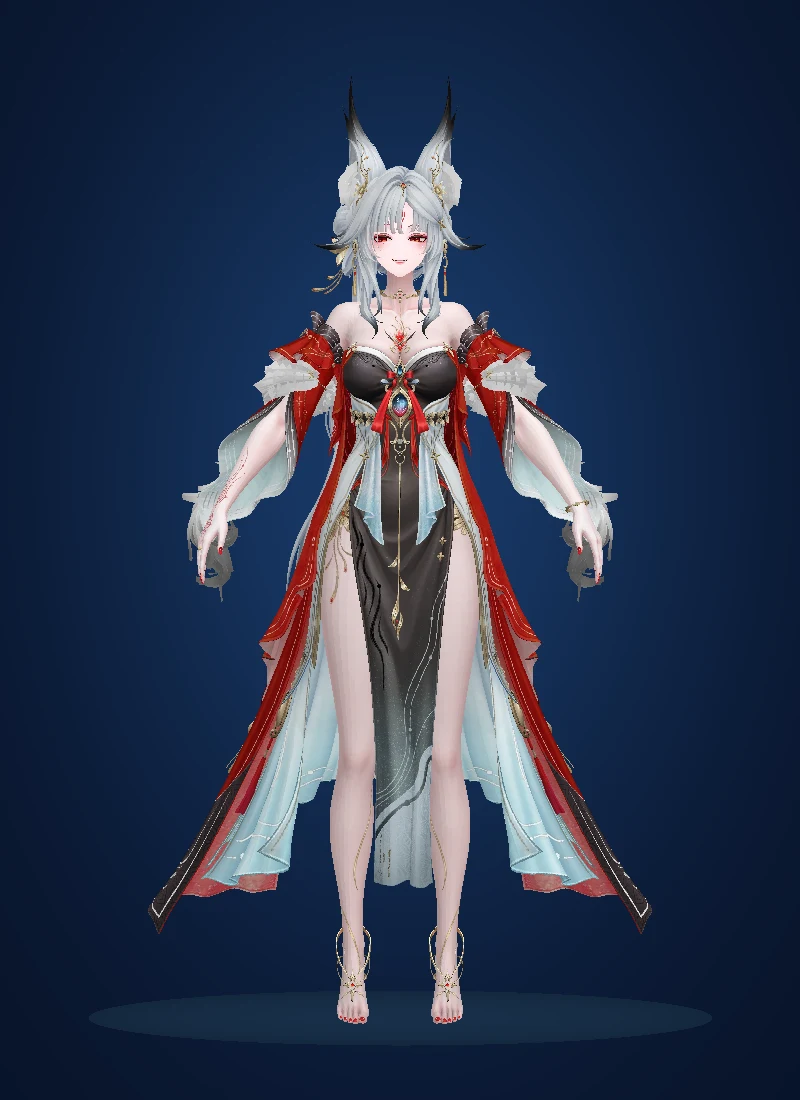
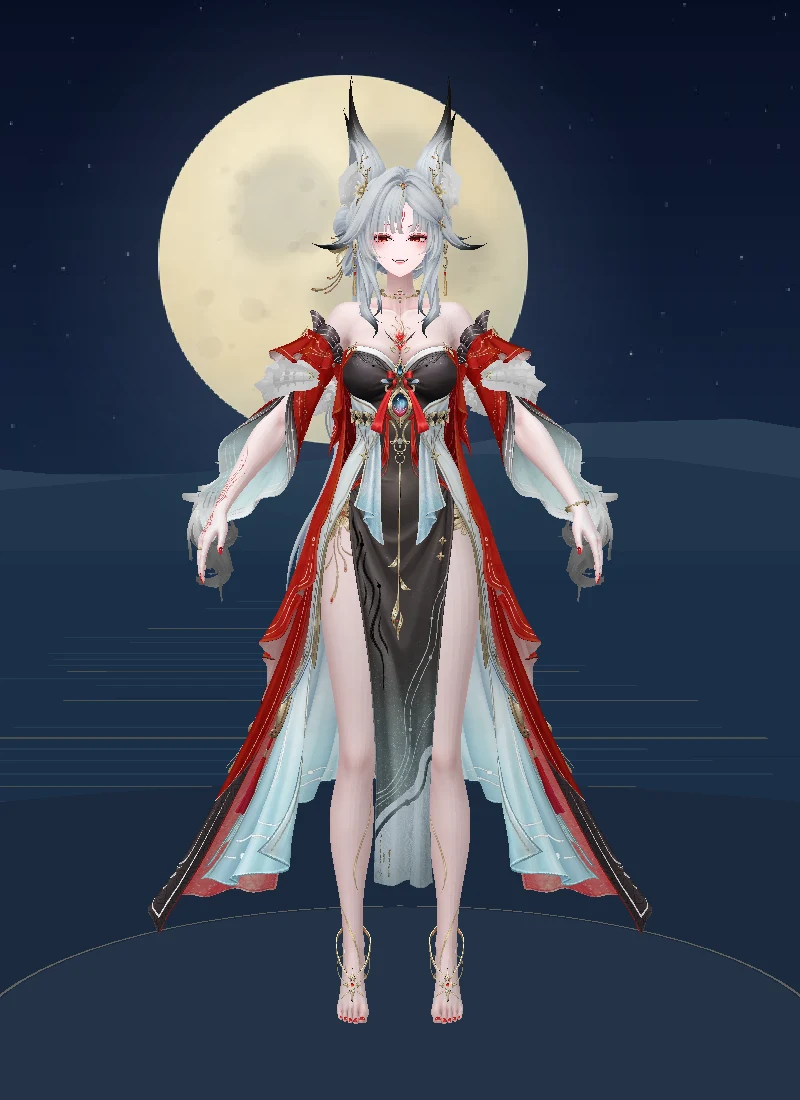
feat(hsin): reinterpret moonlit terrace with full moon and lightweight lake scenery

diff --git a/src/scripts/hsin-stage.ts b/src/scripts/hsin-stage.ts
@@ -7,6 +7,7 @@ import {createChestDirector} from './hsin-chest-director.mjs';
 import {createBodyRepertoire} from './hsin-body-repertoire.mjs';
 import {createPoseTransition} from './hsin-pose-transition.mjs';
 import {createRestBreath} from './hsin-rest-breath.mjs';
+import {MOONLIT,createMoonlitEnvironment} from './hsin-moonlit-environment.mjs';
 
 /** Public player. The local-file lab, geometry solvers and authoring UI are separate entries. */
 export function mountHsinStage(root:HTMLElement){
@@ -52,19 +53,24 @@ export function mountHsinStage(root:HTMLElement){
    const [profileResponse,response]=await Promise.all([fetch(HSIN_STAGE.profile+version,{signal:attempt.signal}),fetch(HSIN_STAGE.model+version,{signal:attempt.signal})]);
    if(!profileResponse.ok)throw Error('Stage profile unavailable.');const profile=await profileResponse.json();if(profile.modelSha256!==asset.sha256)throw Error('Stage/profile version mismatch.');
    if(!response.ok)throw Error('Model unavailable.');
+   // Small, prebuilt scenery textures. Late results after navigation are disposed immediately.
+   const textureLoader=new T.TextureLoader();
+   const sceneryTexture=async(url:string)=>{const t=await textureLoader.loadAsync(url);if(cleaned||attempt.signal.aborted){t.dispose();throw Error('Scenery load cancelled.');}t.colorSpace=T.SRGBColorSpace;textures.add(t);return t;};
+   const scenery=Promise.all([sceneryTexture(MOONLIT.sky),sceneryTexture(MOONLIT.moon)]);
+   // Attach an immediate rejection handler while GLTF parsing is in flight.
+   scenery.catch(()=>{});
    const bytes=await response.arrayBuffer(),gltf=await new GLTFLoader().parseAsync(bytes,'');model=gltf.scene;
    if(attempt.signal.aborted||destroyed||attemptId!==generation){collect(model);releaseCollected();if(!cleaned)clean();return;}
-   scene=new T.Scene();scene.matrixWorldAutoUpdate=false;scene.fog=new T.Fog(HSIN_STAGE.colors.fog,7,22);
-   const sky=document.createElement('canvas');sky.width=256;sky.height=512;const ctx=sky.getContext('2d')!;
-   const gradient=ctx.createLinearGradient(0,0,0,512);gradient.addColorStop(0,'#081329');gradient.addColorStop(.45,'#244c78');gradient.addColorStop(.7,'#162d50');gradient.addColorStop(1,'#0b1d36');ctx.fillStyle=gradient;ctx.fillRect(0,0,256,512);
-   const halo=ctx.createRadialGradient(128,220,5,128,220,160);halo.addColorStop(0,'#6b95bb38');halo.addColorStop(1,'#6b95bb00');ctx.fillStyle=halo;ctx.fillRect(0,0,256,512);
-   const backdrop=new T.CanvasTexture(sky);backdrop.colorSpace=T.SRGBColorSpace;scene.background=backdrop;textures.add(backdrop);
-   const floor=new T.Mesh(new T.PlaneGeometry(60,60),new T.MeshBasicMaterial({color:0x122d4a}));floor.rotation.x=-Math.PI/2;floor.position.y=-.083;scene.add(floor);
+   // Adopt the model before awaiting scenery so failure/teardown also releases its GPU resources.
+   scene=new T.Scene();scene.matrixWorldAutoUpdate=false;scene.add(model);
+   const [skyTexture,moonTexture]=await scenery;
+   if(attempt.signal.aborted||destroyed||attemptId!==generation)return;
+   const moonlit=createMoonlitEnvironment({THREE:T,skyTexture,moonTexture});scene.background=moonlit.background;scene.fog=moonlit.fog;scene.add(moonlit.group);
    const platform=new T.Mesh(new T.CylinderGeometry(.79,.84,.075,48),new T.MeshStandardMaterial({color:HSIN_STAGE.colors.platform,roughness:.94,metalness:.08}));platform.position.y=-.042;scene.add(platform);
    const ring=new T.Mesh(new T.RingGeometry(.79,.797,64),new T.MeshBasicMaterial({color:HSIN_STAGE.colors.ring,transparent:true,opacity:.42,depthWrite:false}));ring.rotation.x=-Math.PI/2;ring.position.y=-.002;scene.add(ring);
    const shadowCanvas=document.createElement('canvas');shadowCanvas.width=shadowCanvas.height=128;const sc=shadowCanvas.getContext('2d')!,shade=sc.createRadialGradient(64,64,4,64,64,64);shade.addColorStop(0,'#020716b3');shade.addColorStop(1,'#02071600');sc.fillStyle=shade;sc.fillRect(0,0,128,128);
    const shadowTexture=new T.CanvasTexture(shadowCanvas);textures.add(shadowTexture);const shadow=new T.Mesh(new T.PlaneGeometry(1.3,1.3),new T.MeshBasicMaterial({map:shadowTexture,transparent:true,depthWrite:false}));shadow.rotation.x=-Math.PI/2;shadow.position.y=.002;scene.add(shadow);
-   scene.add(new T.AmbientLight(0xc9ddf5,1.05));const key=new T.DirectionalLight(0xffeee4,2.1);key.position.set(2,4,5);scene.add(key);const rim=new T.DirectionalLight(0x7cb9ee,1.1);rim.position.set(-3,2,-4);scene.add(rim);
+   scene.add(new T.AmbientLight(0xc5d4eb,.95));const key=new T.DirectionalLight(0xd4e3fc,1.8);key.position.set(-2,4,5);scene.add(key);const rim=new T.DirectionalLight(0xe6d5b2,1.15);rim.position.set(-2,4,-5);scene.add(rim);
    model.position.y-=profile.bounds.min[1];scene.add(model);scene.updateMatrixWorld(true);
    // Static transforms are frozen. Driven bones update their local matrices; one scene flush per rendered frame.
    scene.traverse((o:any)=>{o.updateMatrix();o.matrixAutoUpdate=false;});
@@ -77,7 +83,7 @@ export function mountHsinStage(root:HTMLElement){
    resetCamera=()=>{orbit.target.set(0,HSIN_STAGE.baseTargetY,0);camera.position.set(0,HSIN_STAGE.baseTargetY+.23,initialDistance);orbit.update();loop?.invalidate();};
    zoom=(factor:number)=>{const current=camera.position.distanceTo(orbit.target),distance=Math.max(orbit.minDistance,Math.min(orbit.maxDistance,current*factor));camera.position.sub(orbit.target).multiplyScalar(distance/current).add(orbit.target);orbit.update();loop?.invalidate();};
    orbit.addEventListener('change',()=>{
-    const height=attentionHeight(camera.position.distanceTo(orbit.target),initialDistance),delta=height-orbit.target.y;if(Math.abs(delta)>1e-6){orbit.target.y=height;camera.position.y+=delta;}loop?.invalidate();
+    const height=attentionHeight(camera.position.distanceTo(orbit.target),initialDistance),delta=height-orbit.target.y;if(Math.abs(delta)>1e-6){orbit.target.y=height;camera.position.y+=delta;}moonlit.frameSky(camera,orbit.target);worldDirty=true;loop?.invalidate();
    });
    fit();resize=new ResizeObserver(fit);resize.observe(host);
    const seed=crypto.getRandomValues(new Uint32Array(1))[0],face=createFacialActing({seed,pass:'auto-b1',autonomous:true,intensity:.75,morphLimits:profile.limits,gazeAxes:profile.gazeAxes});

diff --git a/src/styles/hsin-stage.css b/src/styles/hsin-stage.css
@@ -20,6 +20,7 @@ inset:0}
 place-items:center;
 pointer-events:none;
 transition:opacity .25s ease}
+.hsin-stage__poster picture{display:contents}
 .hsin-stage__poster img{width:100%;
 height:100%;
 object-fit:contain;
@@ -69,7 +70,7 @@ transform:translateX(-50%);
 display:flex;
 gap:4px;
 padding:5px;
-border:1px solid #94b6da40;
+border:1px solid #c6b28b59;
 border-radius:28px;
 background:#0b1b34d9;
 box-shadow:0 6px 30px #050e203d}
@@ -90,7 +91,7 @@ line-height:1}
 color:#fff}
 .hsin-stage button:disabled{opacity:.4;
 cursor:default}
-.hsin-stage :focus-visible{outline:2px solid #b8d9ff;
+.hsin-stage :focus-visible{outline:2px solid #ead6ad;
 outline-offset:4px}
 .hsin-stage__status{position:absolute;
 left:50%;

diff --git a/docs/hsin-v2-moonlit-stage.md b/docs/hsin-v2-moonlit-stage.md
@@ -1,0 +1,83 @@
+# Hsin V2.0 — terraço, lago e lua cheia
+
+## Estado inicial e entrega
+
+- Repositório: `indiolibanes/portfolio`.
+- Base: `main` em `725ed9067ba74cf7748fee5eaa1fcf306b264b8b`, após os merges dos PRs #166 e #167 feitos antes desta etapa.
+- Implementação V2 aprovada por regressões/build: `09068ccb4bbaa1e4942420126fb3f20a018d0847` (PR #167). A inspeção WebGL da personagem continuava pendente; sucesso de build não comprova renderização.
+- Branch: `experiment/hsin-v2-moonlit-2026-11-01`. Entrega em PR draft contra `main`, sem merge automático. O head e a URL imutável ficam registrados no PR.
+- Rota principal: `/experimentos/hsin/`. Laboratório preservado em `/experimentos/hsin-lab/`.
+
+## Reinterpretação da imagem
+
+Referência inspecionada: `public/assets/music-moonlit-terrace-v4.webp`, usada na seção Música. A composição original reúne lua dourada sobre a Hsin, céu azul estrelado, lago, serras e terraço de pedra. Esta versão preserva essa relação entre lua, silhueta e água, com poucos elementos reais em profundidade. Não reproduz as demais personagens, lanternas, flores, arquitetura ou a pintura como um fundo plano.
+
+A lua é um plano com textura RGBA de 512×512: disco cheio em marfim/dourado suave, regiões lunares estilizadas, crateras discretas e halo incorporado. A textura é criada por código SVG e rasterizada offline; não é uma fotografia astronômica. Não há bloom nem passe extra de glow. O céu tem um gradiente azul e estrelas imóveis incorporadas a uma textura de 512×512.
+
+Duas serras poligonais em profundidades diferentes, um plano de água e um terraço circular constituem a parte espacial. O reflexo é uma composição estática de faixas trianguladas, agrupadas numa única geometria; não é um espelho físico e não segue a lua durante a órbita. O aro discreto da base recebe o tom dourado da imagem original. A lua acompanha a direção da câmera como uma camada celeste distante; o lago, o terraço e as serras permanecem fixos no mundo e fornecem paralaxe. Essa decisão mantém a lua no enquadramento sem adicionar atualizações ao loop de atuação.
+
+Uma luz principal fria, preenchimento ambiente e recorte levemente dourado preservam a leitura da personagem. Materiais originais do GLB são mantidos, incluindo aqueles sem iluminação (`KHR_materials_unlit`); esses materiais não passam a reagir às luzes. Não se promete equivalência ao shader do jogo.
+
+## Asset e preservação
+
+GLB servido diretamente do projeto: `public/assets/models/hsin/hsin-v2.0.glb`.
+
[1 lines of base64/hex data omitted]
+- O GLB otimizado, perfil, rig, atuação facial e poses não foram modificados nesta etapa.
+- O original privado de 69.407.460 bytes continua preservado fora do repositório. A otimização anterior e seus limites estão em `hsin-v2-stage.md` e `hsin-v2-asset-report.json`.
+- Nenhum seletor de arquivo ou painel técnico foi adicionado à apresentação.
+
+## Câmera e interação
+
+Roda do mouse, pinch e botões aproximam/afastam. Arrastar permite órbita de cerca de ±40°; a inclinação foi restringida a aproximadamente 1°–18° acima do plano, evitando vistas aéreas exageradas e sob o chão. Pan continua desativado e Hsin permanece no centro. A distância mínima é 1,05 m; a máxima e o enquadramento inicial continuam adaptados ao aspecto. Aproximar eleva o foco ao rosto. O botão de retorno restaura o enquadramento, e a atuação pode ser pausada. Os controles de câmera permanecem disponíveis com movimento reduzido.
+
+Testes de projeção cobrem o disco completo da lua nas vistas iniciais em 393×852, 320×740 e 16:9, incluindo ambos os limites de azimute. Zoom fechado pode recortar a lua para priorizar o rosto. Esses testes não verificam a naturalidade dos gestos de toque em um aparelho real.
+
+## Orçamento de execução
+
+| Item | Resultado |
+| --- | --- |
+| Geometria deste módulo | 6 meshes, 298 triângulos, 6 draw calls sem contar culled objects |
+| Acréscimo em relação ao palco azul | 5 draw calls: o terraço substitui o chão anterior |
+| Cena completa esperada | 18 draws com as 9 primitivas de Hsin, base, aro e contato; não medido na GPU |
+| Texturas do cenário | 54.752 bytes somadas; duas imagens de 512×512 |
+| Memória das novas imagens | Aproximadamente 2,33 MiB RGBA com mipmaps apenas na lua; exclui overhead do driver |
+| Pós-processamento, HDR, partículas e sombras reais | Nenhum |
+| Reflexo e estrelas | Estáticos; nenhum cálculo temporal ou render target |
+| Loop e resolução | 30 FPS de teto; DPR até 1 no toque/1,25 no desktop e teto de 1.152.000 pixels |
+| Pausa e descarte | Mesma política de visibilidade, render sob demanda e liberação do player V2 |
+
+O teto de 30 FPS não é uma medição de FPS. A grande redução de peso e morphs pertence à V2 anterior; esta etapa acrescenta o cenário dentro de um orçamento pequeno e explícito. Recursos celestes são atualizados apenas quando a câmera muda, inclusive no damping. As texturas usam o registro de descarte do player; resultados de carregamento que chegam após sair da página são liberados. O modelo é adotado pela cena antes da espera pelas texturas para que uma falha nessa espera também o descarte.
+
+## Arquivos
+
+- `src/scripts/hsin-moonlit-environment.mjs`: geometria, materiais simples, lua/halo e enquadramento celeste.
+- `src/scripts/hsin-stage.ts`: integração, iluminação, carregamento e ciclo de vida.
+- `src/scripts/hsin-stage-config.mjs`: limites de órbita e cores da base.
+- `scripts/generate-hsin-moonlit.mjs`: fonte reproduzível das texturas.
+- `public/assets/scenes/hsin/{night-sky-v1,full-moon-v1}.webp`: duas texturas estáticas.
+- `scripts/render-hsin-poster.mjs`: rasterização CPU de geometria para posters; aproximação de materiais, sem WebGL, normal maps ou avaliação de desempenho.
+- `public/assets/models/hsin/hsin-v2.0-poster{,-landscape}.webp`: alternativas de fallback para retrato e paisagem.
+- `src/pages/experimentos/hsin/index.astro`, `src/styles/hsin-stage.css`: poster responsivo, descrição acessível, créditos e detalhes em dourado.
+- `tests/hsin-moonlit-environment.test.mjs` e workflow Hsin: orçamento de geometria/texturas e enquadramento da lua, junto das regressões existentes.
+
+## Validação e limites
+
+- `node --test tests/hsin-*.test.mjs`: 29 arquivos aprovados, incluindo o GLB público e 600 segundos de atuação simulada com restauração exata. Auditorias privadas que exigem argumento informam skip interno quando não recebem arquivo; não foram contadas como auditoria privada real.
+- `npm run build`: aprovado, incluindo verificação OG.
+- `npm run check:ux`: 97/100, com as mesmas três falhas anteriores: `nav: lab label aligned`, `nav: music static link`, `curiosidades: header link`.
+- Projeções da lua e dois posters de geometria real inspecionados em retrato/paisagem. A rasterização CPU aproxima transparência, cor, fog e iluminação; não reproduz PBR, normal maps, antialiasing e shaders do navegador.
+- WebGL, movimento contínuo, FPS, memória sustentada, perda de contexto e pinch no Samsung Internet exigem verificação em hardware real. Não transformar a inspeção dos posters em aprovação da cena animada.
+
+Reprodução offline:
+
+```sh
+node scripts/generate-hsin-moonlit.mjs
+node scripts/render-hsin-poster.mjs public/assets/models/hsin/hsin-v2.0.glb public/assets/models/hsin/hsin-v2.0-poster.webp
+node scripts/render-hsin-poster.mjs public/assets/models/hsin/hsin-v2.0.glb public/assets/models/hsin/hsin-v2.0-poster-landscape.webp 1280 720
+node --test tests/hsin-*.test.mjs
+npm run build
+npm run check:ux
+```
+
+Aceite manual: abrir a prévia no desktop e Samsung Internet, conferir lua e rosto sem estouro de brilho, órbita nos dois sentidos, zoom/pinch, retorno de câmera, pausa/retomada, troca de aba e uso por alguns minutos. Conferir transparência do halo e da roupa e a separação dos planos do lago. Manter draft sem merge automático até o aceite.
